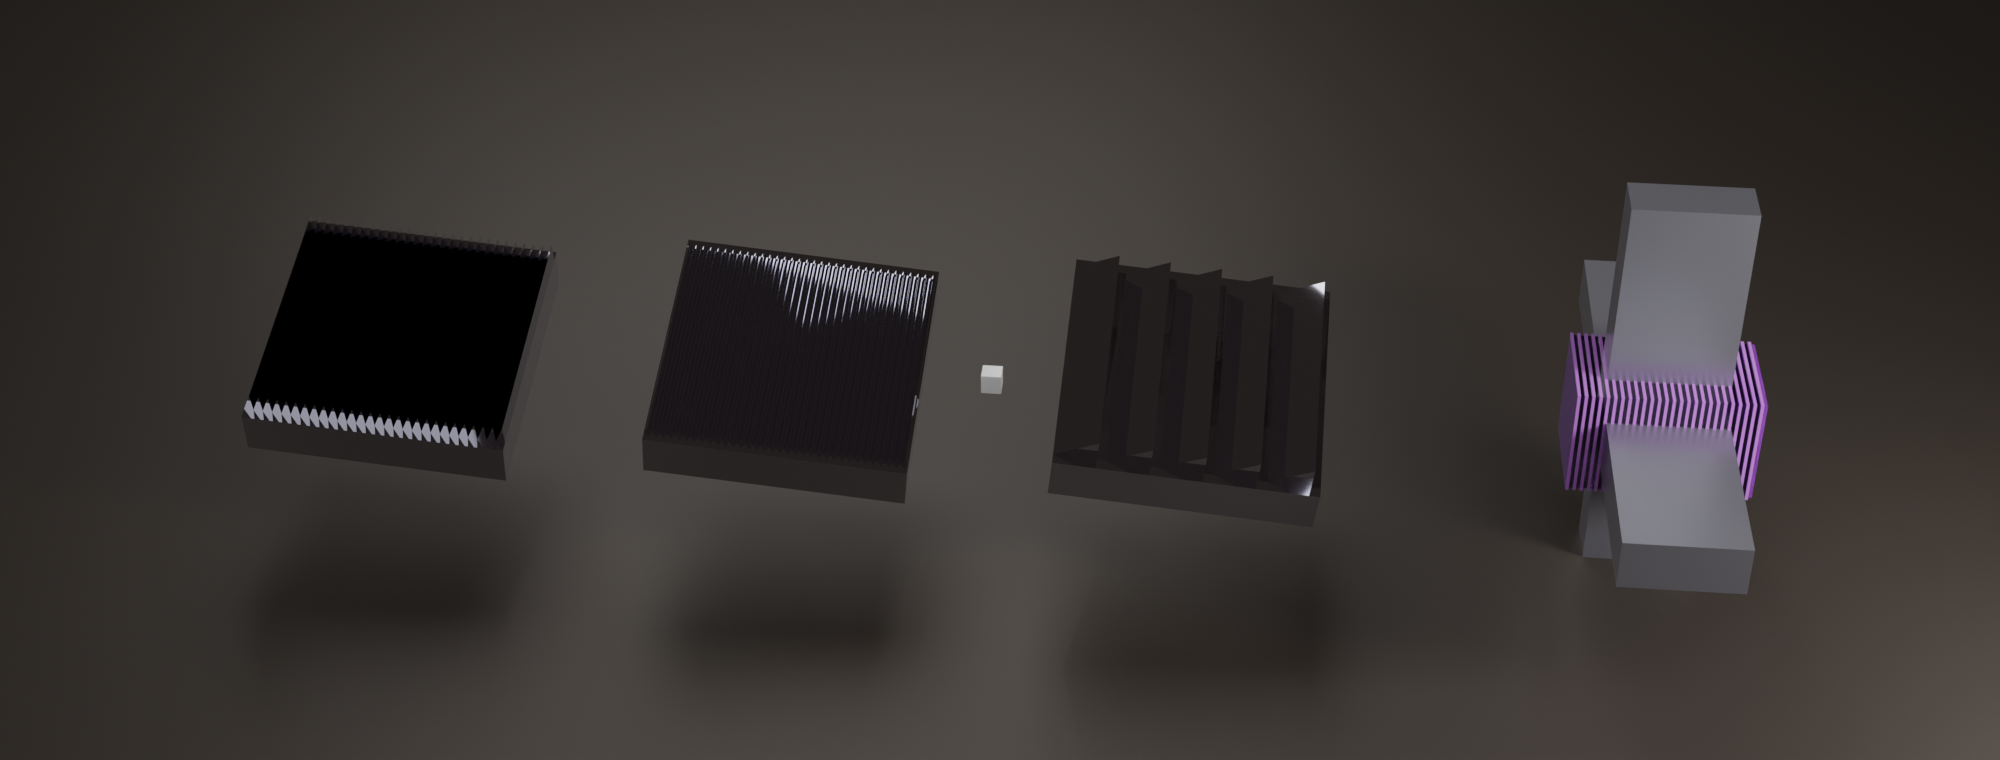
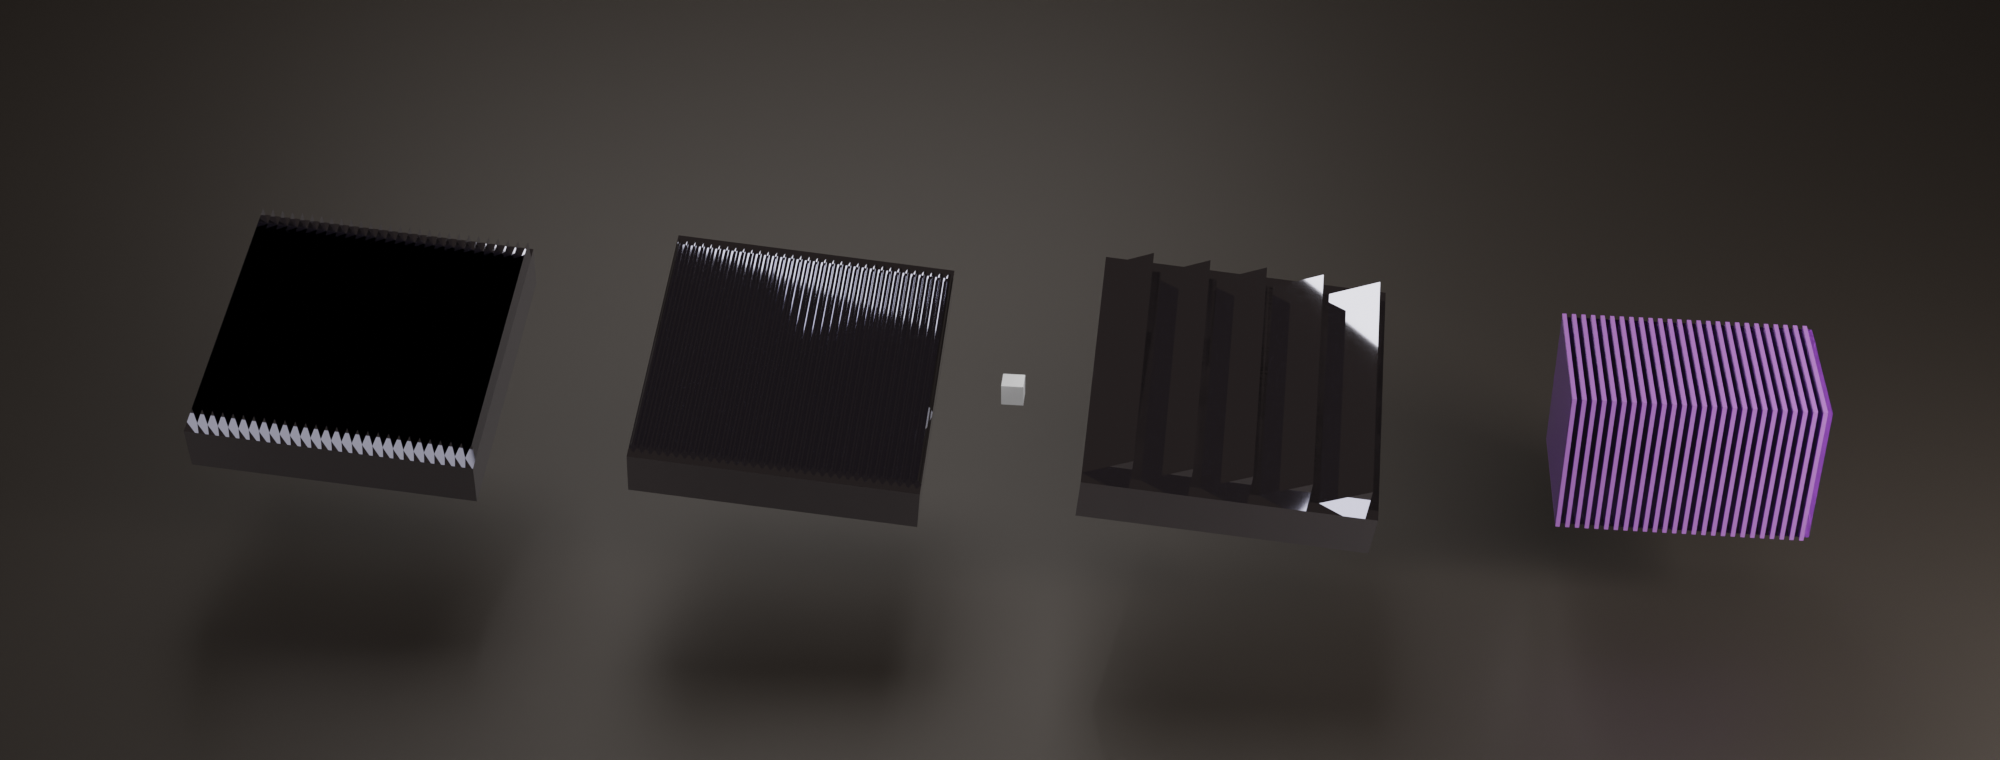
fix(render): clean PPLN in the D3 grating montage (drop oven clutter)
The rightmost (PPLN) panel read as broken: the four-bar oven housing
(size*1.5 bars) dwarfed the crystal and the slab sat inconsistently with the
three flat gratings. The montage's job is to show the four PROFILES, and the
PPLN's profile IS its poling stripes — so render the PPLN as a clean striped
crystal (oven=False) sized to match the gratings. The four now read clearly:
ruled sawtooth / holographic sinusoid / echelle staircase / PPLN poling
stripes. Render-only change; oven=True remains a valid build.

diff --git a/tests/_render_d3_gratings.py b/tests/_render_d3_gratings.py
@@ -56,11 +56,13 @@ def main():
               lines_per_mm=1200.0, order=1, grating_profile='HOLOGRAPHIC')
     G.grating("D3_Echelle", (0.5 * gap, 0, 0), -face, face, c, size=sz,
               lines_per_mm=80.0, order=1, grating_profile='ECHELLE')
-    # the PPLN slab: lay the beam axis (its poling stripes run along +Z) along +X so the stripes face the
-    # camera broadside; the oven housing straddles it.
-    G.crystal("D3_PPLN", (1.5 * gap + 6, 0, 0), Vector((1, 0, 0)), c, size=18.0, nl_process='SHG',
+    # the PPLN slab: its poling-domain stripes run along the beam axis, so lay that axis horizontal (+X)
+    # and stand the striped broad face toward the camera. NO oven here -- the montage shows the four
+    # PROFILES (the stripes ARE the PPLN's "profile"); the oven housing is incidental clutter that dwarfed
+    # the crystal in the four-up, so it is left off for the comparison (oven=True is still a valid build).
+    G.crystal("D3_PPLN", (1.5 * gap, 0, 0), Vector((1, 0, 0)), c, size=sz * 0.85, nl_process='SHG',
               crystal_material='PPLN', phase_matching_type='TYPE0', pm_scheme='QPM',
-              poling_period_um=6.5, crystal_length_mm=18.0, oven=True, ppln_show_stripes=True)
+              poling_period_um=6.5, crystal_length_mm=sz * 0.85, oven=False, ppln_show_stripes=True)
 
     scene.optics.realistic_optics = True
     scene.optics.bg_preset = 'DARK'
